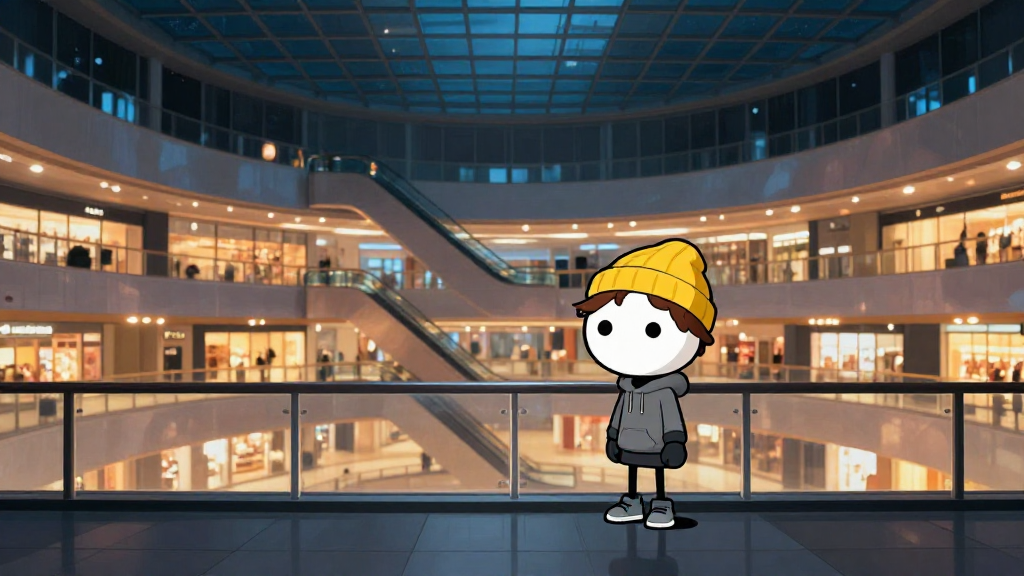
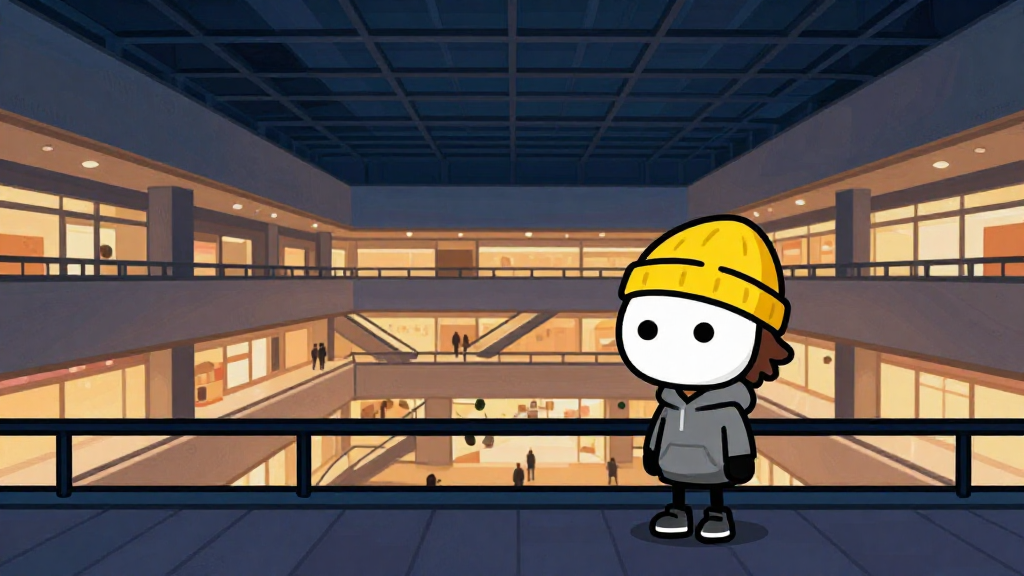
survival: тест 02 собран (стиль B, анимация, Qwen3-TTS), STATUS обновлён
Claude-Session: https://claude.ai/code/session_01TrCkW3CYMKxpi8G7az8v22

diff --git a/survival/STATUS.md b/survival/STATUS.md
@@ -20,7 +20,8 @@
 - Исследование ниш: `../research/`.
 
 ## Решения и пожелания пользователя
-- **Стиль A**: нарисованный стикмен как у Stick It Out. Белая круглая голова, тело-палочка, белые перчатки, детальные фоны (`STYLE.md`).
+- ~~Стиль A (палочный стикмен)~~ устарел. **Выбран стиль B** (28.11): широкая детальная нарисованная сцена, как в образце. Герой: круглая белая голова, жёлтая вязаная шапка, серое худи, ноги-палочки. Сцена генерируется целиком (Z-Image-Turbo).
+- **Музыки нет**, только голос (как в образце).
 - **Только бесплатно и только открытые проекты с GitHub.**
   - Браузерные сервисы с регистрацией не подходят: от Pollinations пользователь отказался.
   - Ключи и аккаунты не просить.
@@ -36,8 +37,16 @@
 - Образец №1 получен (Google Диск) и разобран: `refs/sample01/ANALYSIS.md`. Главное: мультяшный герой с шапкой (не палочный стикмен), музыки нет, спокойный мужской голос ~160 слов/мин, второе лицо, счётчик дней, план каждые ~5 с с наездом.
 - Большие видео пользователь присылает ссылкой Google Диска («все, у кого есть ссылка»); скачивать `curl -L "https://drive.usercontent.google.com/download?id=ID&export=download&confirm=t"`.
 
+- **Тест 02** `videos/test02_mall/test02_mall.mp4` (37 с, стиль B), отправлен пользователю 28.11, ждём отзыв.
+  - Кадры: Z-Image-Turbo (`styles/ai/gen.sh`), 4 сцены, один текст-описание героя во всех; герой узнаваем.
+  - Анимация: `engine/animate.py` (глубина -> параллакс, герой дышит/качается/моргает, пыль, наезд).
+  - Голос: Qwen3-TTS VoiceDesign 1.7B (`tts.py`, описание голоса там), весь текст одним дублем, потом atempo 1.1 (было 132 сл/мин). Whisper распознал слово в слово. Тон ~106 Гц.
+  - Сборка: `build.py` (тайминги из Whisper, заставки DAY/NIGHT, -14 LUFS).
+  - Минусы: один кадр держится до 12 с (в образце ~5 с), в s2 крошечные силуэты людей внизу.
+
 ## Следующий шаг (новая сессия)
-1. Пользователь присылает видео-образец, файлом в чат.
+0. **Сейчас:** получить отзыв на тест 02 (картинка, анимация, голос). Дальше: больше кадров (план ~5 с), крупные планы лица, посчитать время на длинное видео.
+1. (сделано) Пользователь присылает видео-образец, файлом в чат.
 2. Разобрать образец:
    - кадры раз в 1–2 с (ffmpeg), смотреть контактные листы;
    - голос: тембр, темп, паузы, распознать речь через faster-whisper и посчитать слова в минуту;
@@ -53,6 +62,7 @@
 - Образец используется только для разбора. В видео из него ничего не берём.
 
 ## Техника (проверено)
+- **Ловушки:** не править .sh, пока он выполняется (bash читает файл по ходу и падает). Z-Image при «shopping mall» тянет в фото: помогает «flat 2D cartoon, cel shaded, bold ink outlines on everything». Генерация кадра ~7 мин, а при параллельном TTS ~15 мин; TTS 37 с текста ~45 мин при занятом CPU.
 - **Видеокарты нет**: 4 CPU, ~15 ГБ RAM. Генерация на CPU.
 - **Фоны**: `engine/background.py`.
   - SDXL-Turbo в bf16, ~25 с на кадр 1024×576.
